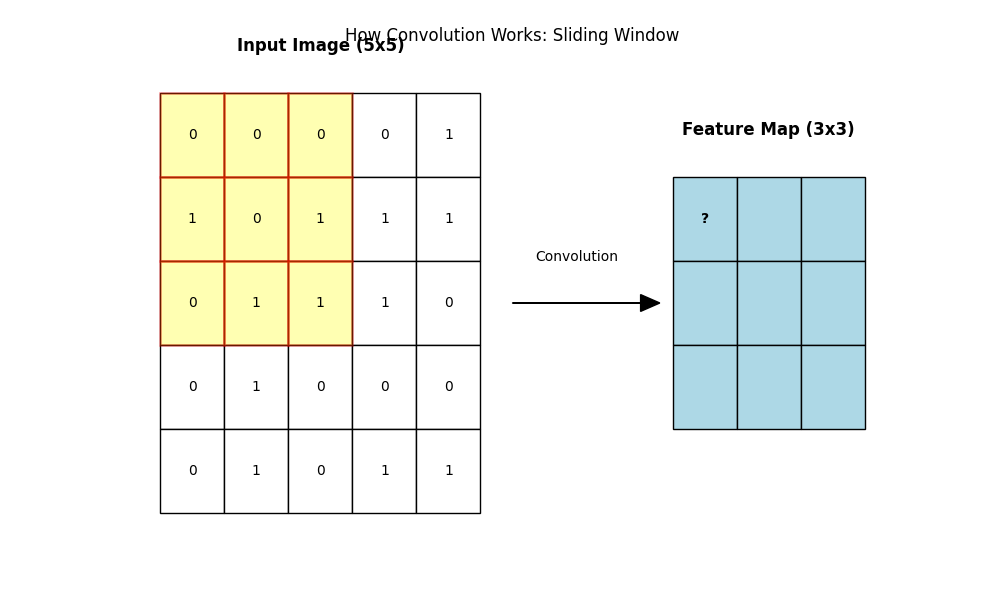
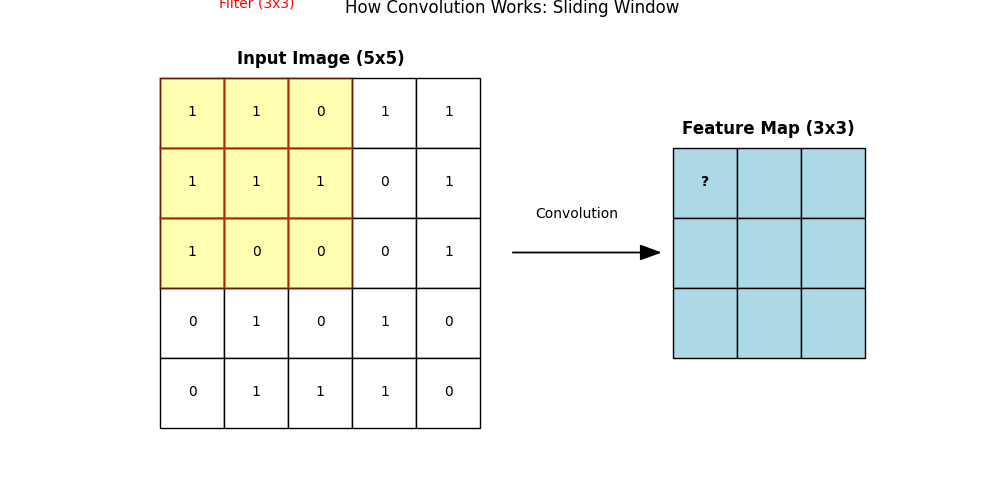
feat: Implement a CNN for cat/dog image classification, including data preparation, model training, evaluation, and visualization of CNN concepts and results.

diff --git a/day25/DL_CNN_CatDog.py b/day25/DL_CNN_CatDog.py
@@ -128,9 +128,8 @@ plt.savefig(os.path.join(pic_dir, '25-2_Predictions.png'))
 print("Predictions plot saved.")
 
 # 視覺化 3: 卷積運算示意圖 (Convolution Visualization)
-# 畫一個簡單的 5x5 矩陣和 3x3 濾鏡，展示卷積過程
 def plot_convolution_diagram():
-    fig, ax = plt.subplots(figsize=(10, 6))
+    fig, ax = plt.subplots(figsize=(10, 5)) # Shorter height
     ax.axis('off')
     
     # Draw Input Matrix (5x5)
@@ -139,14 +138,14 @@ def plot_convolution_diagram():
             rect = plt.Rectangle((j, 4-i), 1, 1, fc='white', ec='black')
             ax.add_patch(rect)
             ax.text(j+0.5, 4-i+0.5, str(np.random.randint(0, 2)), ha='center', va='center')
-    ax.text(2.5, 5.5, "Input Image (5x5)", ha='center', fontsize=12, fontweight='bold')
+    ax.text(2.5, 5.2, "Input Image (5x5)", ha='center', fontsize=12, fontweight='bold') # Moved up
 
     # Draw Filter (3x3) - Highlighted
     for i in range(3):
         for j in range(3):
             rect = plt.Rectangle((j, 4-i), 1, 1, fc='yellow', alpha=0.3, ec='red', lw=2)
             ax.add_patch(rect)
-    ax.text(1.5, 6.5, "Filter (3x3)", ha='center', color='red', fontsize=10)
+    ax.text(1.5, 6.0, "Filter (3x3)", ha='center', color='red', fontsize=10) # Moved up
     
     # Draw Arrow
     ax.arrow(5.5, 2.5, 2, 0, head_width=0.2, head_length=0.3, fc='k', ec='k')
@@ -159,10 +158,99 @@ def plot_convolution_diagram():
             ax.add_patch(rect)
             if i==0 and j==0:
                 ax.text(8+j+0.5, 3-i+0.5, "?", ha='center', va='center', fontweight='bold')
-    ax.text(9.5, 4.5, "Feature Map (3x3)", ha='center', fontsize=12, fontweight='bold')
+    ax.text(9.5, 4.2, "Feature Map (3x3)", ha='center', fontsize=12, fontweight='bold') # Moved up
     
-    plt.title("How Convolution Works: Sliding Window", y=1.05)
+    plt.title("How Convolution Works: Sliding Window", y=1.1) # Moved title up
     plt.savefig(os.path.join(pic_dir, '25-3_Convolution_Diagram.png'))
     print("Convolution Diagram plot saved.")
 
 plot_convolution_diagram()
+
+# 視覺化 4: 池化運算示意圖 (Pooling Visualization)
+def plot_pooling_diagram():
+    fig, ax = plt.subplots(figsize=(10, 5))
+    ax.axis('off')
+    
+    # Input 4x4
+    data = np.array([[1, 3, 2, 4],
+                     [5, 6, 1, 2],
+                     [8, 7, 3, 0],
+                     [2, 1, 5, 4]])
+    
+    colors = ['#FF9999', '#99FF99', '#9999FF', '#FFFF99'] # Red, Green, Blue, Yellow
+    
+    # Draw Input
+    for i in range(4):
+        for j in range(4):
+            # Determine color block
+            block_idx = (i // 2) * 2 + (j // 2)
+            rect = plt.Rectangle((j, 3-i), 1, 1, fc=colors[block_idx], alpha=0.3, ec='black')
+            ax.add_patch(rect)
+            ax.text(j+0.5, 3-i+0.5, str(data[i, j]), ha='center', va='center')
+    ax.text(2, 4.2, "Input (4x4)", ha='center', fontsize=12, fontweight='bold')
+
+    # Arrow
+    ax.arrow(4.5, 2, 2, 0, head_width=0.2, head_length=0.3, fc='k', ec='k')
+    ax.text(5.5, 2.5, "Max Pooling (2x2)", ha='center')
+
+    # Draw Output 2x2
+    output = np.array([[6, 4],
+                       [8, 5]])
+    
+    for i in range(2):
+        for j in range(2):
+            block_idx = i * 2 + j
+            rect = plt.Rectangle((7+j, 2.5-i), 1, 1, fc=colors[block_idx], alpha=0.5, ec='black')
+            ax.add_patch(rect)
+            ax.text(7+j+0.5, 2.5-i+0.5, str(output[i, j]), ha='center', va='center', fontweight='bold')
+    ax.text(8, 3.7, "Output (2x2)", ha='center', fontsize=12, fontweight='bold')
+    
+    plt.title("How Max Pooling Works: Pick the Winner", y=1.1)
+    plt.savefig(os.path.join(pic_dir, '25-4_Pooling_Diagram.png'))
+    print("Pooling Diagram plot saved.")
+
+plot_pooling_diagram()
+
+# 視覺化 5: CNN 架構圖 (Architecture Visualization)
+def draw_cnn_architecture():
+    fig, ax = plt.subplots(figsize=(12, 6))
+    ax.axis('off')
+    
+    layers = [
+        ("Input", "32x32", 32, 'white'),
+        ("Conv1", "30x30", 30, '#FFCC99'), # Orange
+        ("Pool1", "15x15", 15, '#99CCFF'), # Blue
+        ("Conv2", "13x13", 13, '#FFCC99'),
+        ("Pool2", "6x6", 6, '#99CCFF'),
+        ("Flatten", "1D", 2, 'lightgray'),
+        ("Dense", "Class", 1, 'lightgreen')
+    ]
+    
+    x_pos = 0
+    spacing = 2.5
+    
+    for i, (name, dim, size, color) in enumerate(layers):
+        # Draw box
+        height = size / 5.0 # Scale height
+        width = 1.5
+        if name == "Flatten": height = 6 # Represent long vector
+        if name == "Dense": height = 1
+        
+        rect = plt.Rectangle((x_pos, 3 - height/2), width, height, fc=color, ec='black')
+        ax.add_patch(rect)
+        
+        # Label
+        ax.text(x_pos + width/2, 3 - height/2 - 0.5, name, ha='center', va='top', fontweight='bold')
+        ax.text(x_pos + width/2, 3 + height/2 + 0.2, dim, ha='center', va='bottom', fontsize=9)
+        
+        # Arrow to next
+        if i < len(layers) - 1:
+            ax.arrow(x_pos + width + 0.2, 3, 0.6, 0, head_width=0.1, head_length=0.1, fc='k', ec='k')
+        
+        x_pos += spacing
+
+    plt.title("CNN Architecture: C-P-C-P-F-D", y=1.05)
+    plt.savefig(os.path.join(pic_dir, '25-5_CNN_Architecture.png'))
+    print("CNN Architecture plot saved.")
+
+draw_cnn_architecture()

diff --git a/day25/README.md b/day25/README.md
@@ -1,8 +1,11 @@
 # Day 25: CNN (Convolutional Neural Network) - 貓狗圖片分類
 
 ## 0. 歷史小故事/核心貢獻者:
-**Yann LeCun (1989)** 發明了 **LeNet-5**，這是 CNN 的鼻祖，成功應用於美國郵局的手寫郵遞區號辨識。
-但 CNN 真正爆紅是在 **2012 年 (AlexNet)**，Hinton 的學生 Alex Krizhevsky 用更深的 CNN 在 ImageNet 大賽中以壓倒性優勢奪冠，從此開啟了深度學習的黃金時代。
+CNN 的發展史就是一部 AI 變強的歷史：
+1.  **LeNet-5 (1998, Yann LeCun)**：CNN 的鼻祖，用於辨識手寫數字 (MNIST)。結構簡單 (5層)。
+2.  **AlexNet (2012, Alex Krizhevsky)**：深度學習的引爆點！使用了 ReLU 和 GPU 加速，在 ImageNet 大賽中以壓倒性優勢奪冠 (8層)。
+3.  **VGG (2014)**：證明了「越深越好」，結構非常規整，全部使用 3x3 卷積核 (16~19層)。
+4.  **ResNet (2015, Kaiming He)**：發明了「殘差連接 (Residual Connection)」，解決了梯度消失問題，讓網路可以深達 152 層甚至 1000 層，超越人類辨識能力。
 
 ## 1. 資料集來源
 ### 資料集來源：[CIFAR-10 Dataset](https://www.cs.toronto.edu/~kriz/cifar.html)
@@ -29,12 +32,24 @@ CNN 像人類的眼睛一樣，**用「掃描」的方式看圖片**，保留了
     ![Convolution Diagram](pic/25-3_Convolution_Diagram.png)
     > 黃色框框就是濾鏡，它在圖片上滑動，把對應的像素值相乘再相加，得到右邊的特徵圖 (Feature Map)。
 
-#### 2.2 池化層 (Pooling Layer) - 重點整理
-*   **原理**：把圖片縮小 (Downsampling)。常用的 **Max Pooling** 是在一個區域內 (例如 2x2) 只取最大值。
+#### 2.2 池化層 (Pooling Layer) - 重點整理 (馬賽克)
+*   **原理**：把圖片縮小 (Downsampling)。就像把一張高畫質照片變成 **「縮圖」** 或打上 **「馬賽克」**。
+*   **Max Pooling**：在一個小區域 (例如 2x2) 內，**只選最大的那個數字** 代表這個區域。
+*   **圖解**：
+    ![Pooling Diagram](pic/25-4_Pooling_Diagram.png)
+    > 為什麼選最大值？因為最大值代表這個區域 **「特徵最強」** 的地方 (例如最亮的點、最明顯的邊緣)。其他的雜訊就被過濾掉了。
 *   **功能**：
-    1.  **減少運算量**：圖片變小了。
-    2.  **抗雜訊**：只保留最明顯的特徵 (例如貓耳朵的尖端)，忽略背景雜訊。
-    3.  **平移不變性**：貓稍微移位一點，最大值還是抓得到。
+    1.  **減少運算量**：圖片變小了 (4x4 -> 2x2，資料量剩下 1/4)。
+    2.  **抗雜訊**：只保留最明顯的特徵。
+    3.  **平移不變性**：就算貓稍微移位一點，最大值還是抓得到。
+
+#### 2.3 CNN 架構示意圖 (Architecture)
+![CNN Architecture](pic/25-5_CNN_Architecture.png)
+*   **C-P-C-P-F-D 結構**：
+    *   **Conv (橘色)**：圖片變厚了 (濾鏡變多)，但長寬變小一點。
+    *   **Pool (藍色)**：圖片長寬直接砍半。
+    *   **Flatten (灰色)**：最後把立體的特徵圖拉成一條線。
+    *   **Dense (綠色)**：進行最後的分類。
 
 ## 3. 實戰
 ### Python 程式碼實作
